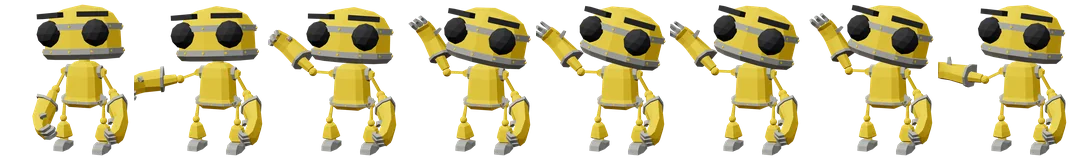
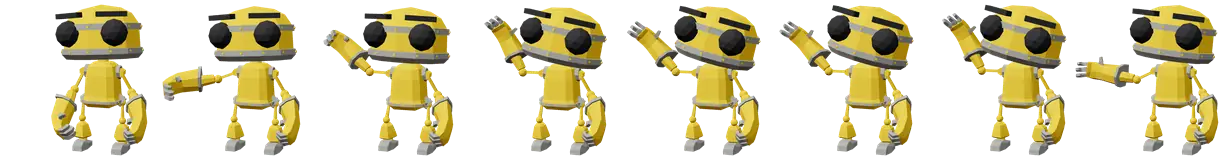
Forsiden: vinkebildet uten avkuttet hånd og mindre (63 → 38 kB); rad i ENDRINGSLOGG
Claude-Session: https://claude.ai/code/session_01MHiEAxRHCBG5ApPNUV1V1h

diff --git a/index.html b/index.html
@@ -219,7 +219,7 @@
   .velg .gratis { color: var(--dempet); font-weight: 700; font-size: 15px; }
   /* EVN-roboten ved overskriften (maskoten, Evens beslutning 2.11.2026). Vinker to ganger første gang siden vises i økta. */
   .velg { display: grid; grid-template-columns: auto 1fr; column-gap: 16px; align-items: end; }
-  .velg-robot { grid-row: 1 / span 2; width: 67px; height: 80px; margin-bottom: -2px; background: url(bilder/robot-vink-160.webp) 0 0 / 800% 100% no-repeat;
+  .velg-robot { grid-row: 1 / span 2; width: 77px; height: 80px; margin-bottom: -2px; background: url(bilder/robot-vink-160.webp) 0 0 / 800% 100% no-repeat;
     filter: drop-shadow(0 6px 10px rgba(0,0,0,.4)) drop-shadow(0 0 14px rgba(47,107,255,.3)); transition: transform .2s ease; }
   .velg-robot.vink { animation: robot-vink 1.1s steps(7, jump-none) 2; }
   @keyframes robot-vink { from { background-position: 0 0; } to { background-position: 100% 0; } }
@@ -233,7 +233,7 @@
     /* Mobil: roboten står til høyre for overskriften, så toppen ikke blir høyere */
     .velg { margin: 14px 0 12px; grid-template-columns: auto 1fr; column-gap: 8px; }
     .velg h1 { grid-column: 1; grid-row: 1; }
-    .velg-robot { grid-column: 2; grid-row: 1; justify-self: start; width: 37px; height: 44px; margin-bottom: 0; }
+    .velg-robot { grid-column: 2; grid-row: 1; justify-self: start; width: 42px; height: 44px; margin-bottom: 0; }
     .velg p { grid-column: 1 / -1; }
     .velg h1 { font-size: 30px; margin-bottom: 2px; }
     .velg p { gap: 2px 10px; font-size: 14px; }

diff --git a/ENDRINGSLOGG.md b/ENDRINGSLOGG.md
@@ -6,6 +6,7 @@ er små – se på retning over flere uker, ikke på enkeltdager.
 
 | Dato | Hva | Spill | Kan påvirke |
 |---|---|---|---|
+| ikke publisert | **Forsiden (forslag): EVN-roboten som maskot.** Liten robot ved «Velg et spill» som vinker to ganger første gang i økta (WebP-stripe 38 kB, av ved redusert bevegelse); roboten i stedet for gutten i «Hvem står bak?»; robothodet ved «Siste nytt». Logo og «Laget av barn. For barn.» er uendret. Startkortene i spillene er ikke endret. | Forside | Ingen forventet effekt |
 | 2026-11-02 ca. 22:05 | **Nytt spill: Dyrepatruljen v0.10.3** (Evens spill, navnet valgt av Even, publisering godkjent av Ivar). 3D-spill der man sniker seg innpå og fanger dyr som har gått seg vill med håv, i 15 verdener med 10 dyr hver; dyrene flytter inn i en dyrepark med naturområder, tog og gangbro. Ny mappe `spill/dyrepatruljen/`, nytt spillkort på forsiden (fire kort: fire kolonner på store skjermer, to på mellomstore, «Nytt»-merket flyttet fra Fossil Zoo). Statistikk: ny oppdager `dyrepatruljen` i statistikk.js (start = klikk på `#startBtn`), hendelsene `start-dyrepatruljen` og `spilletid-dyrepatruljen-*`. Felles startkort, «Start helt på nytt» og «Vil du avslutte?» som i de andre spillene; egen pause (ikke felles pause med spilletid og 🗺-kart ennå). Lagringsnøkkel `evn-dyrespillet-v1`. Helten er RobotExpressive (Tomás Laulhé/Quaternius, CC0) og GLTFLoader (three.js, MIT), begge lagt inn i fila; three.js r128 fra `vendor/`. Testet med CSP og nettstedslag: 0 CSP-brudd, 0 konsollfeil, axe-core uten funn (spill og forside), GoatCounter-start fyrer, Avslutt spør først, gamle lagringer lastes, nullstill virker, PC og iPhone 13-emulering. Ikke testet på ekte mobil; dyreparken med alle 150 dyr kan være tung på svake telefoner. Commit 5feffb2. | Dyrepatruljen, forside, statistikk.js | Nye starter og spilletid for Dyrepatruljen; kan gi litt færre klikk på de tre andre spillene |
 | 2026-11-02 ca. 12:50 | **Fossil Zoo v0.7.3: graveren er roboten fra Mørkeskogen 2.0** (Evens ønske, godkjent av Ivar). Spritesett tatt av 3D-modellen «RobotExpressive» (Tomás Laulhé/Quaternius, CC0) med animasjoner for å stå, gå, grave, klatre og falle; lagt inn som data-URI (CSP tillater `img-src data:`). Bare tegningen av graveren er endret; spillmekanikk, lagring, lagringsnøkkel og statistikk er uendret. Nytt forsidebilde av Fossil Zoo med roboten. Commit 4dfe032. | Fossil Zoo, forside | Ingen forventet effekt; muligens litt flere starter av Fossil Zoo |
 | 2026-11-01 ca. 16:25 | **Era Defenders v0.19.0 (godkjent): vanskelighetsgrad, sluttkamp og seiersskjerm.** Valg av Lett (som før), Normal og Vanskelig på startkortet. Normal og Vanskelig: mindre liv tilbake per bølge, saktere mana, sterkere fiender per epoke, raske og skytende fiender, og fiendene spretter ikke unna når du slår. Livsdrikken drikkes av seg selv ved lavt liv (egen knapp fjernet). Sluttkamp mot Tidsherren i Tidsvirvelen, seiersskjerm og valget Fortsett/Ny runde. Gamle lagringer spiller videre på Lett, nye spillere starter på Normal. Commit a9d3f74. | Era Defenders | Kortere økter og flere omstarter i Normal; mulig flere starter etter seier (Ny runde) |
